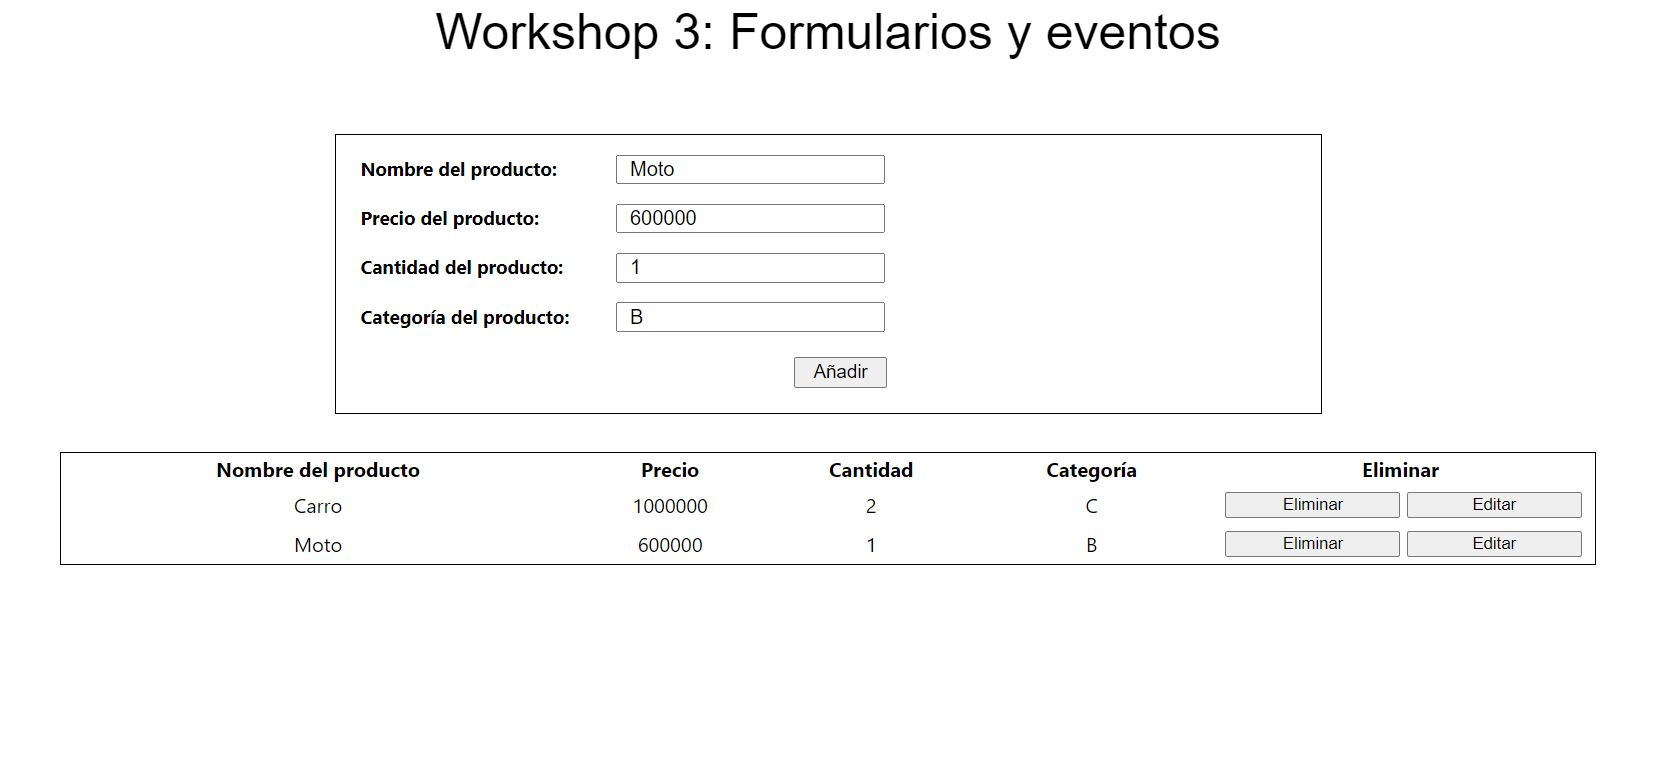
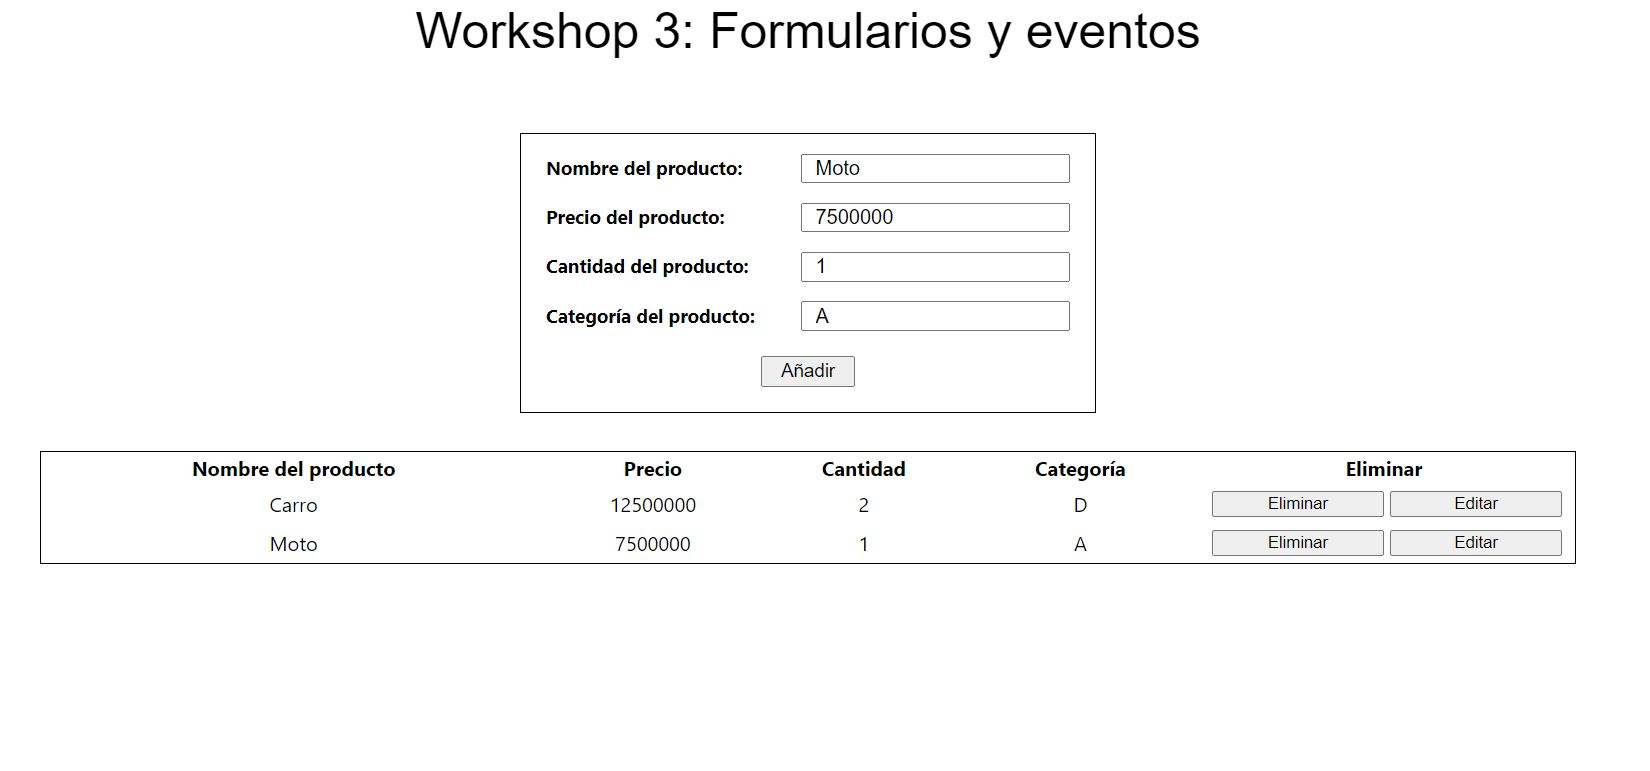
Se cambio el estilo del formulario y se cambiaron el nombre algunas variables

diff --git a/scripts/script.js b/scripts/script.js
@@ -20,15 +20,15 @@ botonAñadir.addEventListener("click", function(){
     /* Posteriormente, muestre los elementos del array en una tabla.*/
 
     
-    let tablaDatos = document.getElementById("tablaProductos").insertRow(-1);
+    let filaDatos = document.getElementById("tablaProductos").insertRow(-1);
     for(let i = 0; i < arregloProducto.length; i++){
-        tablaDatos.insertCell(i).innerHTML = arregloProducto[i];
+        filaDatos.insertCell(i).innerHTML = arregloProducto[i];
     }
 
 
     /* Y la última columna de esta tabla contenga unos botones con las acciones de eliminar y actualizar información del producto. */
 
-    const ultimaCelda = tablaDatos.insertCell(4);   
+    const ultimaCelda = filaDatos.insertCell(4);   
     const botonEliminar = document.createElement("button");
     botonEliminar.textContent = "Eliminar"
     const botonEditar = document.createElement("button");

diff --git a/css/style.css b/css/style.css
@@ -6,11 +6,12 @@
 }
 
 form{
-    width: 50%;
+    width: fit-content;
     margin: auto;
     margin-top: 4%;
     margin-bottom: 2%;
     padding-left: 20px;
+    padding-right: 20px;
     border: 1px solid black;
 }
 
